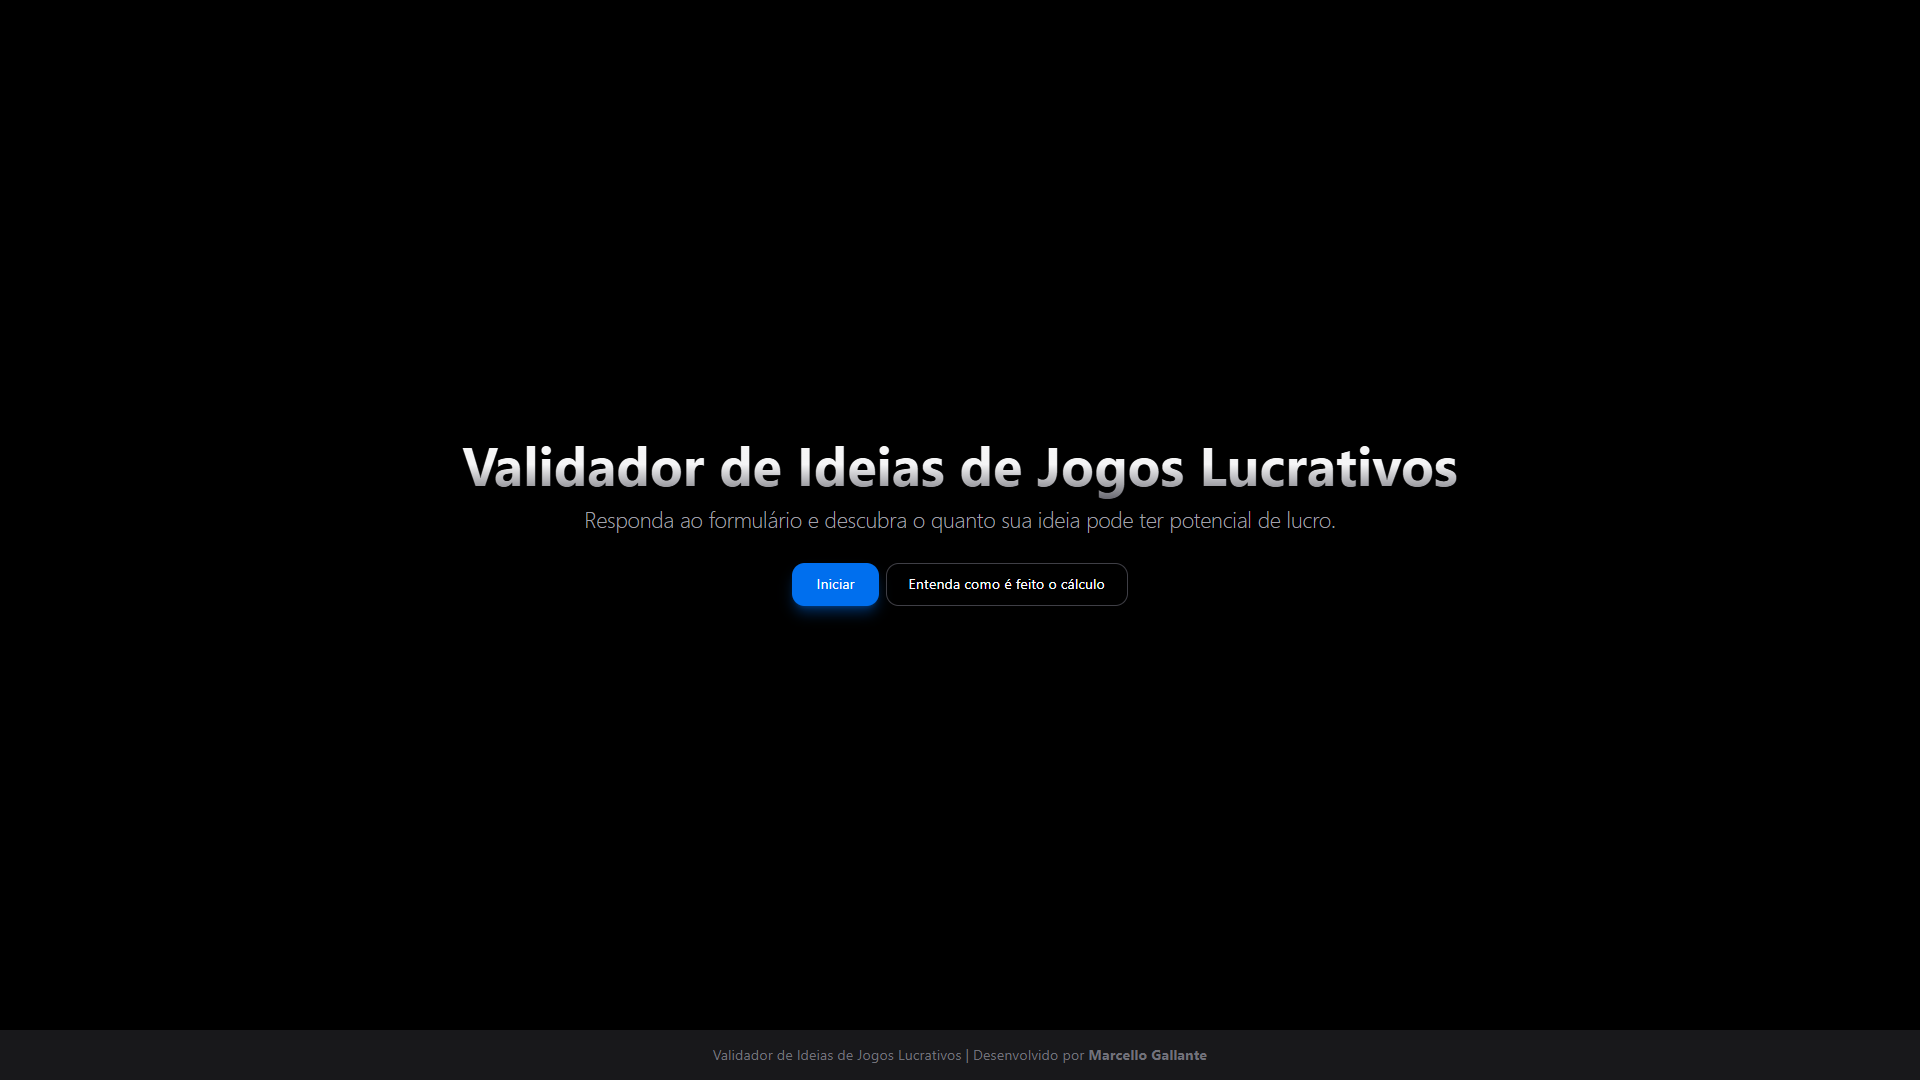
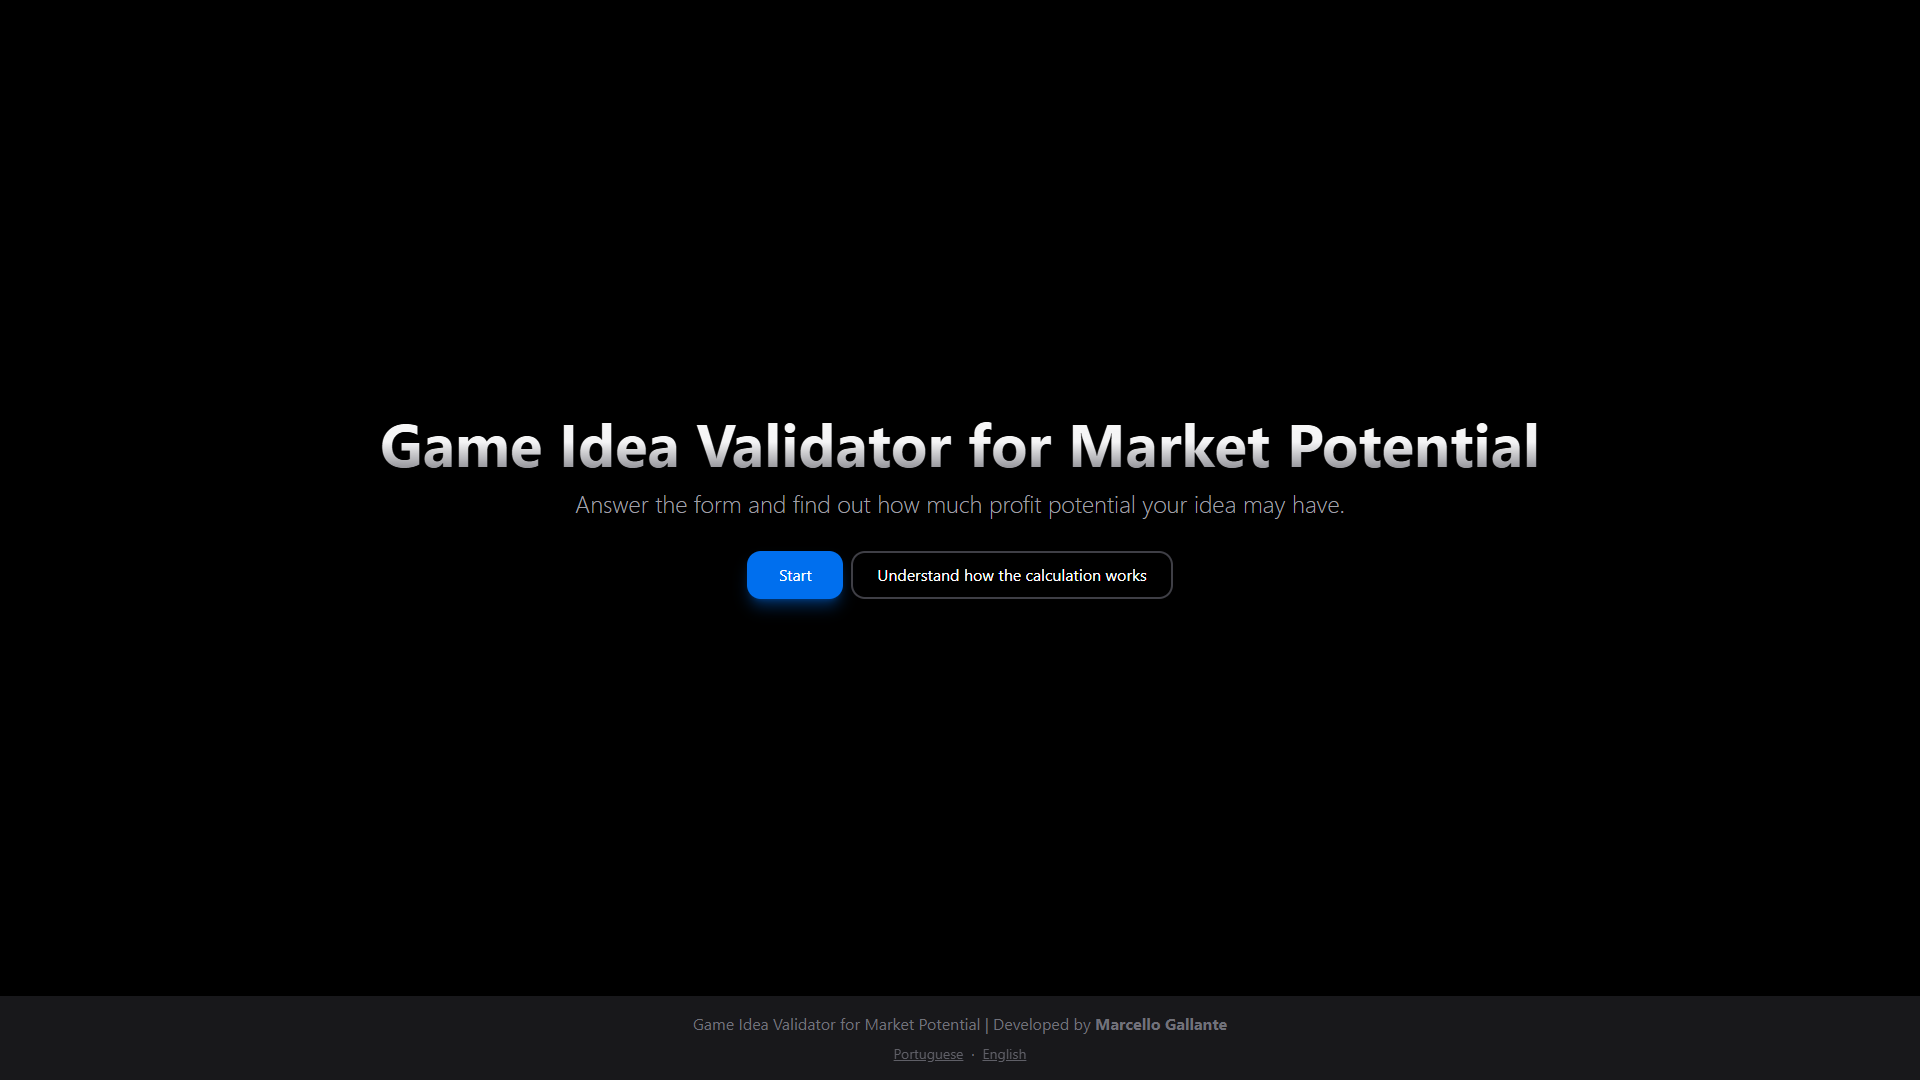
docs: update README

Changed region(s): [[0.0, 0.9167, 1.0, 1.0], [0.1875, 0.3972, 0.8125, 0.5806]]

diff --git a/README.md b/README.md
@@ -1,84 +1,115 @@
-<h3 align="center">Validador de Ideias de Jogos Lucrativos</h3>
+<h1 align="center">Game Idea Validator for Market Potential</h1>
 
 <div align="center">
 
 [![Status](https://img.shields.io/badge/status-active-success.svg)]()
-![Issues](https://img.shields.io/github/issues/MllGll/game-idea-validator
-)
-![Pull Requests](https://img.shields.io/github/issues-pr/MllGll/game-idea-validator
-)
-[![License](https://img.shields.io/badge/license-MIT-blue.svg)](https://github.com/MllGll/game-idea-validator/blob/main/LICENSE)
+![Issues](https://img.shields.io/github/issues/MllGll/game-idea-validator)
+![Pull Requests](https://img.shields.io/github/issues-pr/MllGll/game-idea-validator)
+[![License](https://img.shields.io/badge/license-MIT-blue.svg)](./LICENSE)
 
 </div>
 
-<p align="center">
+<div align="center">
 
-![Imagem demonstrativa](./public/demo-screen.png)
+![demo_screen](./public/demo-screen.png)
 
-</p>
+</div>
 
-## 📝 Apêndice
+## Table of Contents
 
-- [Sobre](#about)
-- [Regras de avaliação](#rules)
-- [Rodando localmente](#installation)
-- [Ferramentas utilizadas](#built_using)
-- [Suporte](#support)
-- [Autores](#authors)
+- [Description](#description)
+- [Features](#features)
+- [Tech Stack](#tech-stack)
+- [Getting Started](#getting-started)
+- [Contributing](#contributing)
+- [Support](#support)
+- [Authors](#authors)
+- [License](#license)
 
-## 🧐 Sobre <a name = "about"></a>
+## Description
 
-Como entusiasta e estudante na área de desenvolvimento de jogos, identifiquei uma necessidade que afeta especialmente desenvolvedores e equipes independentes durante a etapa de planejamento e pesquisa de mercado.
+During planning and market research, independent developers and small teams often need a lightweight way to stress-test game ideas for commercial viability. **Game Idea Validator** targets that gap; it comes from interest in game development as both enthusiast practice and learning.
 
-Este projeto busca atender a essa demanda por meio de um formulário projetado para oferecer suporte na avaliação crítica de ideias ou conceitos de jogos, considerando uma perspectiva essencialmente lucrativa.
+The app is a browser-based questionnaire that supports critical evaluation of game concepts from a primarily profit-oriented angle. Questions cover distinct dimensions of the product; a structured scoring system (total out of 20, with qualitative bands) helps reason about market value and relative success potential. Criteria reflect factors such as popularity, relevance, and target-audience interest.
 
-O formulário é composto por perguntas que abordam diferentes aspectos do produto. Através de um sistema de pontuação estruturado, ele auxilia na análise do valor de mercado e do potencial de sucesso do jogo. Os critérios avaliados incluem fatores como popularidade, relevância e o interesse do público-alvo.
+The interface is available in English and Portuguese (default follows the browser language). Critiques and suggestions to improve the evaluation method are welcome—see [Support](#support).
 
-Por favor, sinta-se a vontade para compartilhar críticas, sugestões ou melhorias para aprimorar o método de avaliação.
+## Features
 
-## 🏁 Regras de avaliação <a name = "rules"></a>
+- Enter a project name and step through yes/no questions with optional examples for each item.
+- Move forward and backward through the flow; one follow-up question appears only when relevant answers are given.
+- Receive a numeric score (max 20), a labeled potential band, and a short disclaimer about interpreting results.
+- Open a panel that lists how each question contributes points.
+- Switch language from the footer without reloading.
+- Restart the flow to evaluate another idea.
 
-- O produto é conhecido internacionalmente? Caso sim, +5 pontos
-- O produto esteve em alta nos últimos anos em outras mídias? Caso sim, +3 pontos
-- O tema/gênero do produto esteve em alta nos últimos anos? (Últimos 5 anos) Caso sim, +2 pontos
-- Existe algum jogo recém-lançado focado no produto? Caso não, +3 pontos
-    - Alcançou um público grande ou obteve um feedback positivo? Caso não, +1 ponto
-- Existe uma demanda por um jogo do produto? Caso sim, +3 pontos
-- O público-alvo do produto em outras mídias é grande? Caso sim, +1 ponto
-- O público-alvo de um jogo do produto é grande? Caso sim, +3 pontos
+### Scoring rules
 
-## 💻 Rodando localmente <a name = "installation"></a>
+Each question focuses on different aspects of the product; this scoring system helps measure market value and success potential. Factors such as popularity, relevance, and audience interest were taken into account.
 
-Essas instruções irão lhe fornecer uma cópia do projeto para que você possa executá-lo em sua própria máquina para fins de desenvolvimento e testes.
+- **Is the product internationally known?** If yes, +5 points.
+- **Has the product been trending in recent years in other media?** If yes, +3 points.
+- **Has the product's theme or genre been trending in recent years?** If yes, +2 points.
+- **Is there a recently released game focused on the product? (Last 5 years)** If no, +3 points.
+  - **Did it reach a large audience or receive positive feedback?** (Only if the previous question was answered yes.) If no, +1 point.
+- **Is there demand for a game about the product?** If yes, +3 points.
+- **Is the product's target audience in other media large?** If yes, +1 point.
+- **Is the target audience for a game about the product large?** If yes, +3 points.
 
-Clone o projeto e abra no editor
-```
+## Tech Stack
+
+**Frontend**
+
+- React 18
+- Vite (SWC React plugin)
+- NextUI
+- Tailwind CSS
+- Framer Motion
+- i18next / react-i18next
+- Lucide React (icons)
+
+**Tooling / Infrastructure**
+
+- Biome (formatter and linter)
+- PostCSS and Autoprefixer
+- `gh-pages` for publishing the production build
+
+## Getting Started
+
+### Installation
+
+```bash
 git clone https://github.com/MllGll/game-idea-validator.git
-```
-
-Instale as dependências
-```
+cd game-idea-validator
 npm install
 ```
 
-Inicie o servidor
-```
+### Running the project
+
+```bash
 npm run dev
 ```
 
-Assim que o projeto for executado, abra a porta referenciada no terminal no navegador de sua preferência.
+Open the local URL printed in the terminal (Vite dev server).
 
-## ⛏️ Ferramentas utilizadas <a name = "built_using"></a>
+## Contributing
 
-- [React](https://react.dev/) - Biblioteca JavaScript
-- [Vite](https://vite.dev/) - Servidor de desenvolvimento
-- [NextUI](https://nextui.org/) - Biblioteca de UI para React
+1. Open an issue to describe the change or bug.
+2. Fork the repository and create a branch for your work.
+3. Submit a pull request referencing the issue when applicable.
 
-## ❓ Suporte <a name = "support"></a>
+## Support
 
-Para suporte, envie um email para [email redacted] ou navegue pelas [issues](https://github.com/MllGll/game-idea-validator/issues).
+Report problems and feature requests via [GitHub Issues](https://github.com/MllGll/game-idea-validator/issues) first.
 
+**Marcello Gallante** — [[email redacted]](mailto:[email redacted])
 
-## ✍️ Autores <a name = "authors"></a>
+## Authors
 
-- [@MllGll](https://github.com/MllGll) - Criador
+**Marcello Gallante**
+
+- GitHub: [https://github.com/MllGll](https://github.com/MllGll)
+
+## License
+
+This project is licensed under the MIT License. See [LICENSE](./LICENSE).